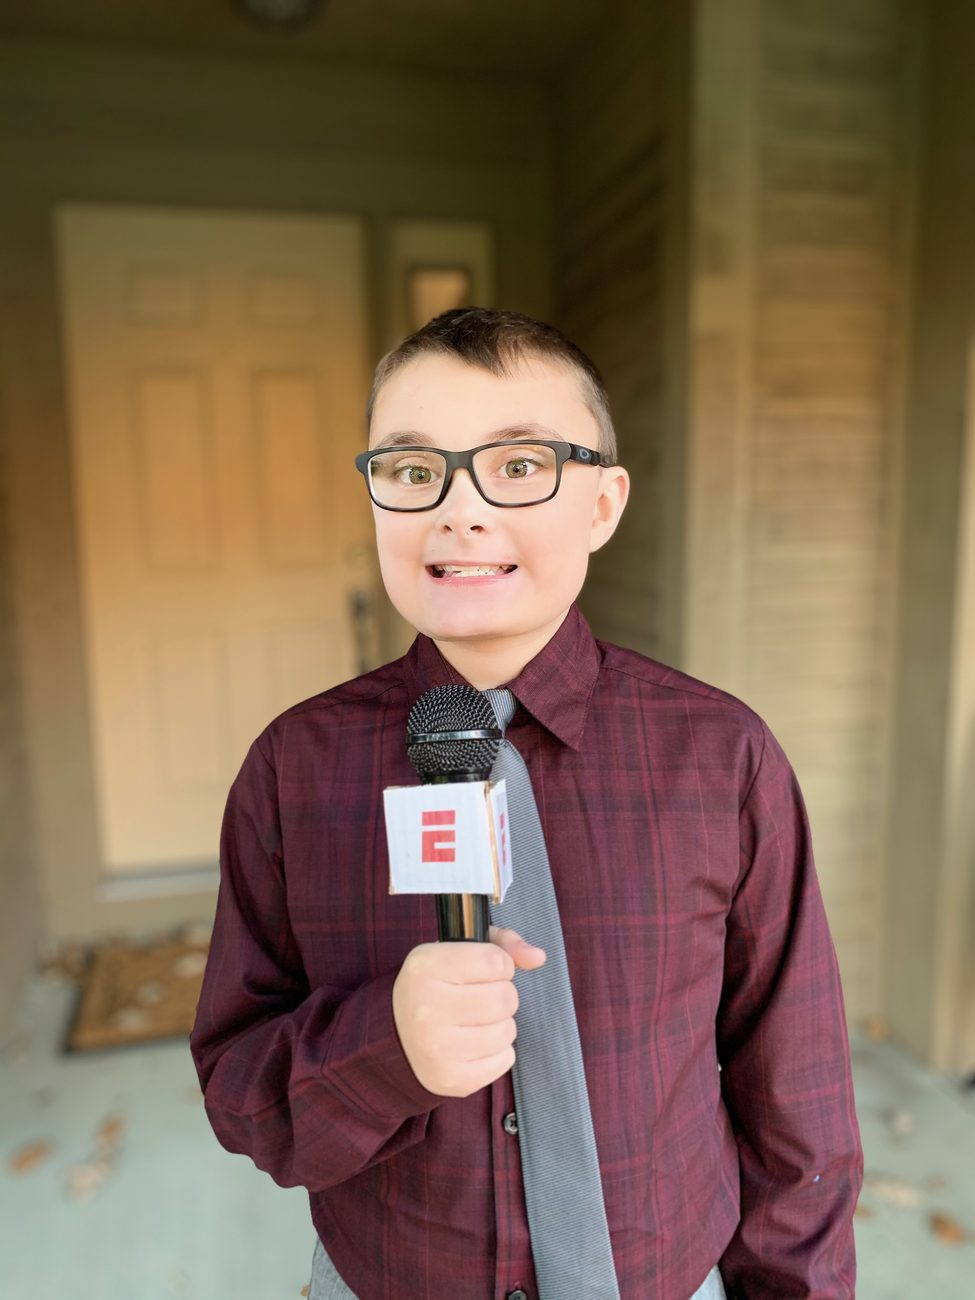
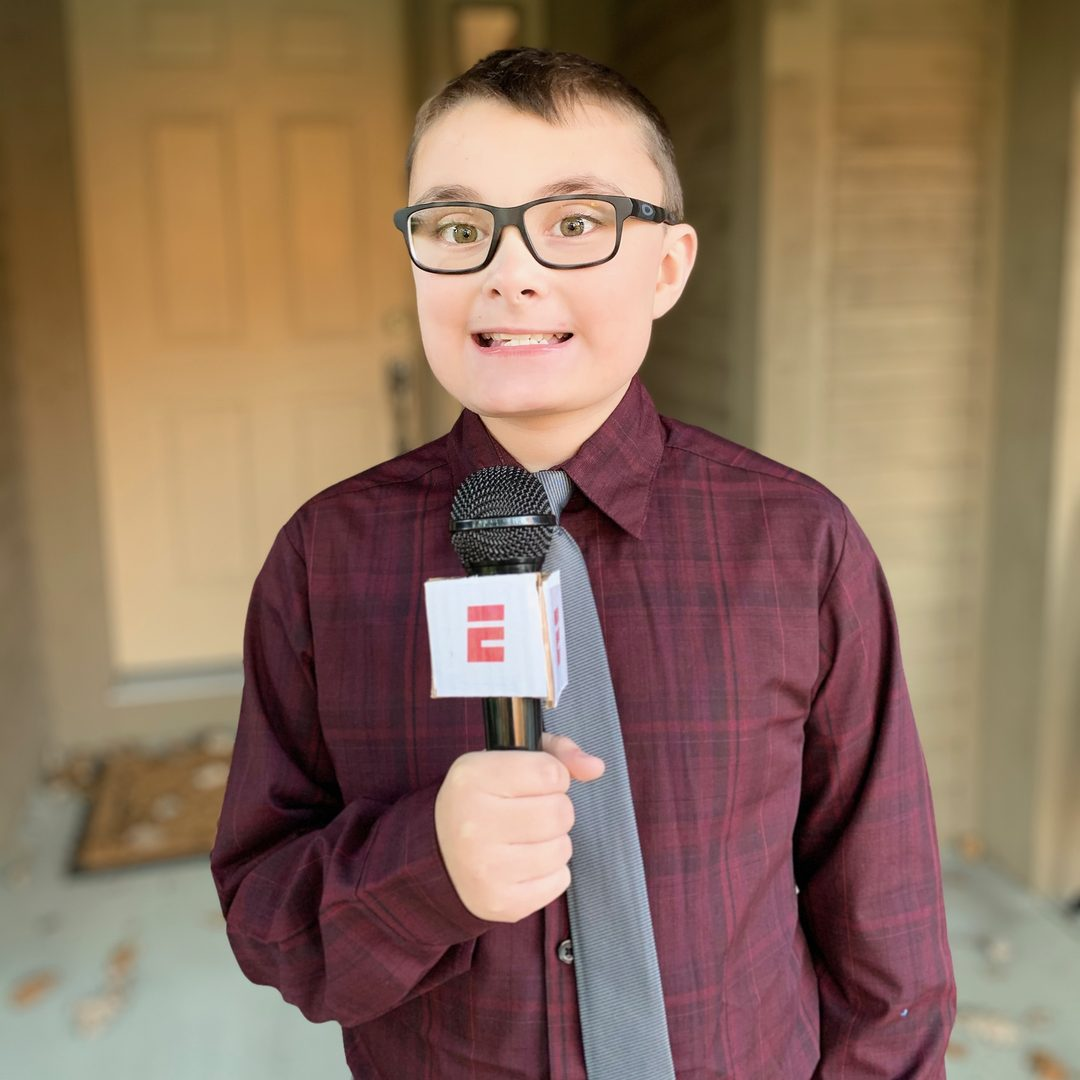
Crop Andrew's photo square with less headroom
Recropped from the original 3024x4032 to a 1:1 square (1080x1080), taking the top
just above his hair so the frame sits close to his head instead of showing a stretch
of empty porch. Card slot aspect-ratio changed 3/4 -> 1/1 to match, so there is still
no cropping. EXIF stripped, 103 KB. Verified square and in-bounds at 390px and 1280px.

diff --git a/assets/site.css b/assets/site.css
@@ -120,7 +120,7 @@ h1 .yr{color:var(--sky);white-space:nowrap}
 .crest-card img{width:100%;max-width:300px;border-radius:12px}
 /* memorial photo of Andrew — a framed portrait on the same navy card */
 .cause-photo-card{background:var(--navy);border-radius:20px;padding:14px;box-shadow:0 24px 50px rgba(10,35,66,.25)}
-.cause-photo-card .cause-photo{display:block;width:100%;aspect-ratio:3/4;object-fit:cover;object-position:center 28%;border-radius:14px;background:#0e2f54}
+.cause-photo-card .cause-photo{display:block;width:100%;aspect-ratio:1/1;object-fit:cover;object-position:center 20%;border-radius:14px;background:#0e2f54}
 .cause-photo-card .cause-cap{margin:14px 4px 4px;text-align:center;font-family:'Oswald',system-ui,sans-serif;font-weight:600;letter-spacing:.04em;font-size:15px;color:#fff}
 
 /* ---------- SCHOLARSHIP RECIPIENTS ---------- */
